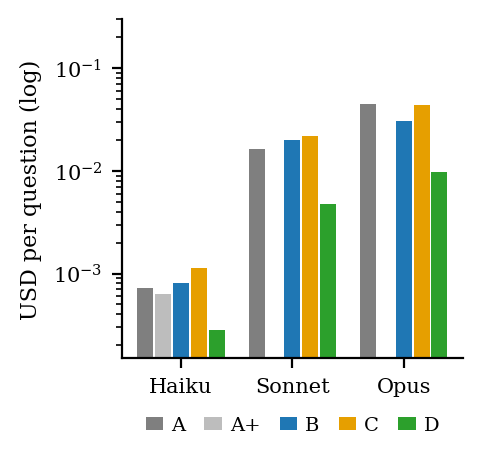
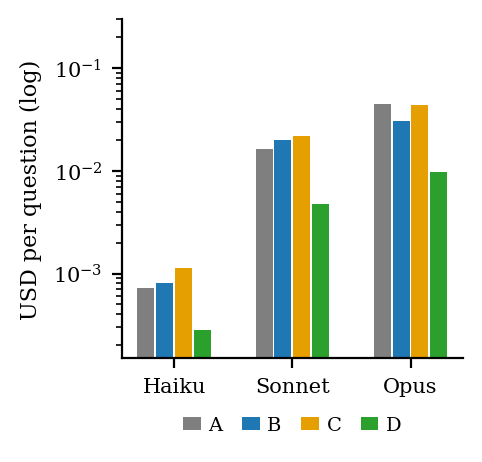
Plots omit the A+ variant; README note

diff --git a/src/lcb/analysis/figures.py b/src/lcb/analysis/figures.py
@@ -32,7 +32,7 @@ def sweep():
 
 def cost():
     df = ft.load(); pq = ft.per_question(df); fin = pq[(pq.split == "final") & (~pq.cohort)]
-    fig, ax = plt.subplots(figsize=(2.2, 2.2)); syss = ft.SYS_ORDER; w = 0.16
+    fig, ax = plt.subplots(figsize=(2.2, 2.2)); syss = [x for x in ft.SYS_ORDER if x != "A+"]; w = 0.16
     for i, s in enumerate(syss):
         vals = [fin[(fin.model == m) & (fin.system == s)].cost.mean() for m in ("haiku", "sonnet", "opus")]
         xs = [k + (i - (len(syss) - 1) / 2) * w for k in range(3)]
@@ -45,7 +45,7 @@ def cost():
 
 def latency():
     df = ft.load(); pq = ft.per_question(df); fin = pq[(pq.split == "final") & (~pq.cohort)]
-    fig, ax = plt.subplots(figsize=(2.2, 2.2)); syss = ft.SYS_ORDER; w = 0.16
+    fig, ax = plt.subplots(figsize=(2.2, 2.2)); syss = [x for x in ft.SYS_ORDER if x != "A+"]; w = 0.16
     for i, s in enumerate(syss):
         vals = [fin[(fin.model == m) & (fin.system == s)].seconds.mean() for m in ("haiku", "sonnet", "opus")]
         xs = [k + (i - (len(syss) - 1) / 2) * w for k in range(3)]

diff --git a/README.md b/README.md
@@ -4,7 +4,7 @@ This repository accompanies an anonymous submission. It contains the benchmark (
 
 ## What is compared
 
-Letters below are the repository's. The paper relabels the systems as A, A+, B (agent, C here), C (multi-agent, D here) and D (fixed pipeline, E here); B here is a retrieval baseline that the paper does not use.
+Letters below are the repository's. The paper relabels the systems as A, B (agent, C here), C (multi-agent, D here) and D (fixed pipeline, E here); B here is a retrieval baseline that the paper does not use. A+ (A with the noise rule added, run with Haiku only) is in the repository and in the cached runs but is not reported in the paper.
 
 Question families: the paper labels them Q1 lookup, Q2 centile, Q3 longitudinal, Q4 cohort-level, Q5 noise and Q6 edge cases; the repository's `family` field uses Q1, Q2, Q3 (including cohort-level questions, tagged `cohort`), Q4 (noise) and Q7 (edge cases).
 
